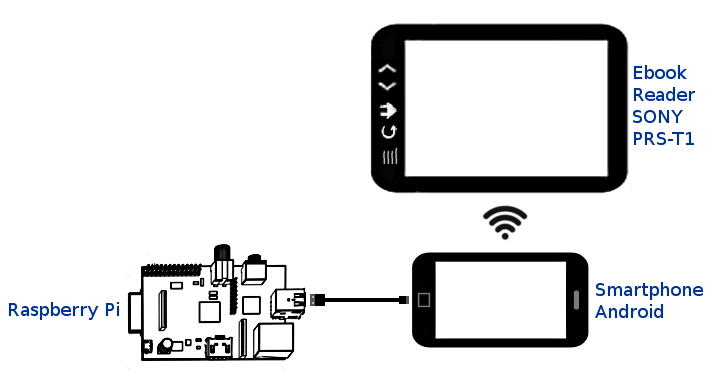
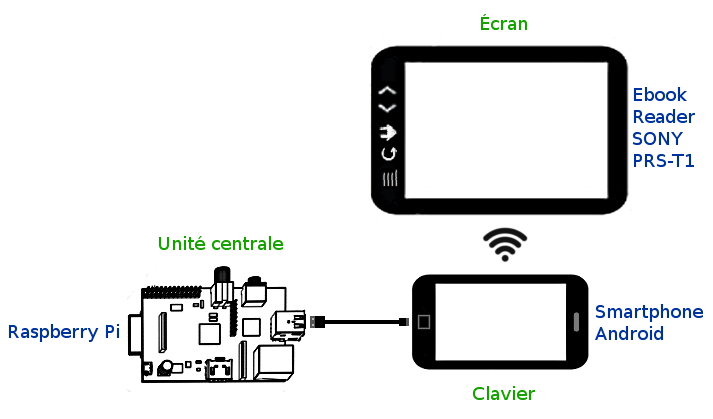
evol

diff --git a/_posts/2015-6-23-raspberryLaptop.md b/_posts/2015-6-23-raspberryLaptop.md
@@ -12,7 +12,7 @@ Le but est ici de trouver une solution pour disposer d'un ordinateur portable
 complet en utilisant un raspberryPi, une liseuse d'eBook et
 d'un télephone Android.
 
-## Un rPi et un téléphone Android
+## Étape 1 : Un rPi et un téléphone Android
 
 Commençons par un cas simple : un rPi est connceté en USB à un téléphone rooté.
 Ici, le téléphone sert de clavier et d'écran pour l'unité centrale RaspberryPi.
@@ -43,26 +43,66 @@ $ ssh pi@192.168.42.51
 
 ![Canon XP3000]({{ site.baseurl }}/images/rPiLaptop/Screen01.png)
 
+## Étape 2 : un téléphone Android et une liseuse Sony PRS-T1 
 
-## Un rPi, un téléphone Android et une liseuse Sony PRS-T1
+Dans ce paragraphe, la liseuse devient un écran annexe pour session de
+travail en console sur un téléphone Android.
 
-Plus complexe : un rPi est connecté en USB à un téléphone Android rooté, la
+![Canon XP3000]({{ site.baseurl }}/images/rPiLaptop/topo01bis.png)
+
+### Rooter la liseuse
+
+La procédure est assez simple : télécharger le 
+minimal-root.zip sur le 
+[dossier de Porkupan](http://projects.mobileread.com/reader/users/porkupan/PRST1/flash_packages/)
+
+Déziper et déposer les fichiers à la racine de SDCARD.
+
+La racine de SDCARD doit contenir le fichier `PRS-T1 Updater.package` et 
+les dossiers `tmp` et `updates`.
+
+Éteindre la liseuse puis redémarrer en maintenant les boutons **Home** et **Menu**
+jusqu'à l'apparition de l'écran *Opening book*.
+
+C'est fini. Pour plus d'informations ou en cas de problème 
+
+- [PRST1 Rooting and Tweaks](http://wiki.mobileread.com/wiki/PRST1_Rooting_and_Tweaks)
+- [Sony PRS-T1 step-by-step rooting and tweaking guide](http://www.mobileread.com/forums/showthread.php?t=184646)
+
+
+### Installer le client ssh ConnectBot sur la liseuse
+
+Par défaut, il n'y a pas de magasin d'applications et le GooglePlay store n'est
+pas installé On va donc installer le magasin d'applications libres F-Droid sur
+la liseuse.
+
+D'abord, activer le wifi, puis avec le navigateur de la liseuse, aller sur
+https://f-droid.org/ et télécharger l'installeur.
+
+Lancer maintenant l'installation de **ConnectBot**.
+
+### Installer SSH Server sur le téléphone
+
+Par défaut, le téléphone n'accepte pas les connexionx entrantes. On va donc 
+installer un serveur ssh pour que la liseuse puisse se conncter au téléphone.
+
+....
+
+### Connecter la liseuse au téléphone
+
+Il faut configurer le téléphone en point d'accès wifi....
+
+
+
+## Étape 3 : Un rPi, un téléphone Android et une liseuse Sony PRS-T1
+
+Dernière étape : un rPi est connecté en USB à un téléphone Android rooté, la
 liseuse se connecte en wifi au télephone et accède au RaspberryPi
 au travers du télehone.
 Ici, le télephone sert de clavier et la liseuse sert d'écran pour l'unité
 centrale RaspberryPi.
 
 ![Canon XP3000]({{ site.baseurl }}/images/rPiLaptop/topo02.png)
-
-### Rooter la liseuse
-
-### Installer le magasin d'applications libres F-Droid sur la liseuse
-
-### Installer le client ssh ConnectBot sur la liseuse
-
-### Installer SSH Server sur le téléphone
-
-### Connecter la liseuse au rPi via le téléphone
 
 
 ## Un téléphone Android et une liseuse Sony PRS-T1
